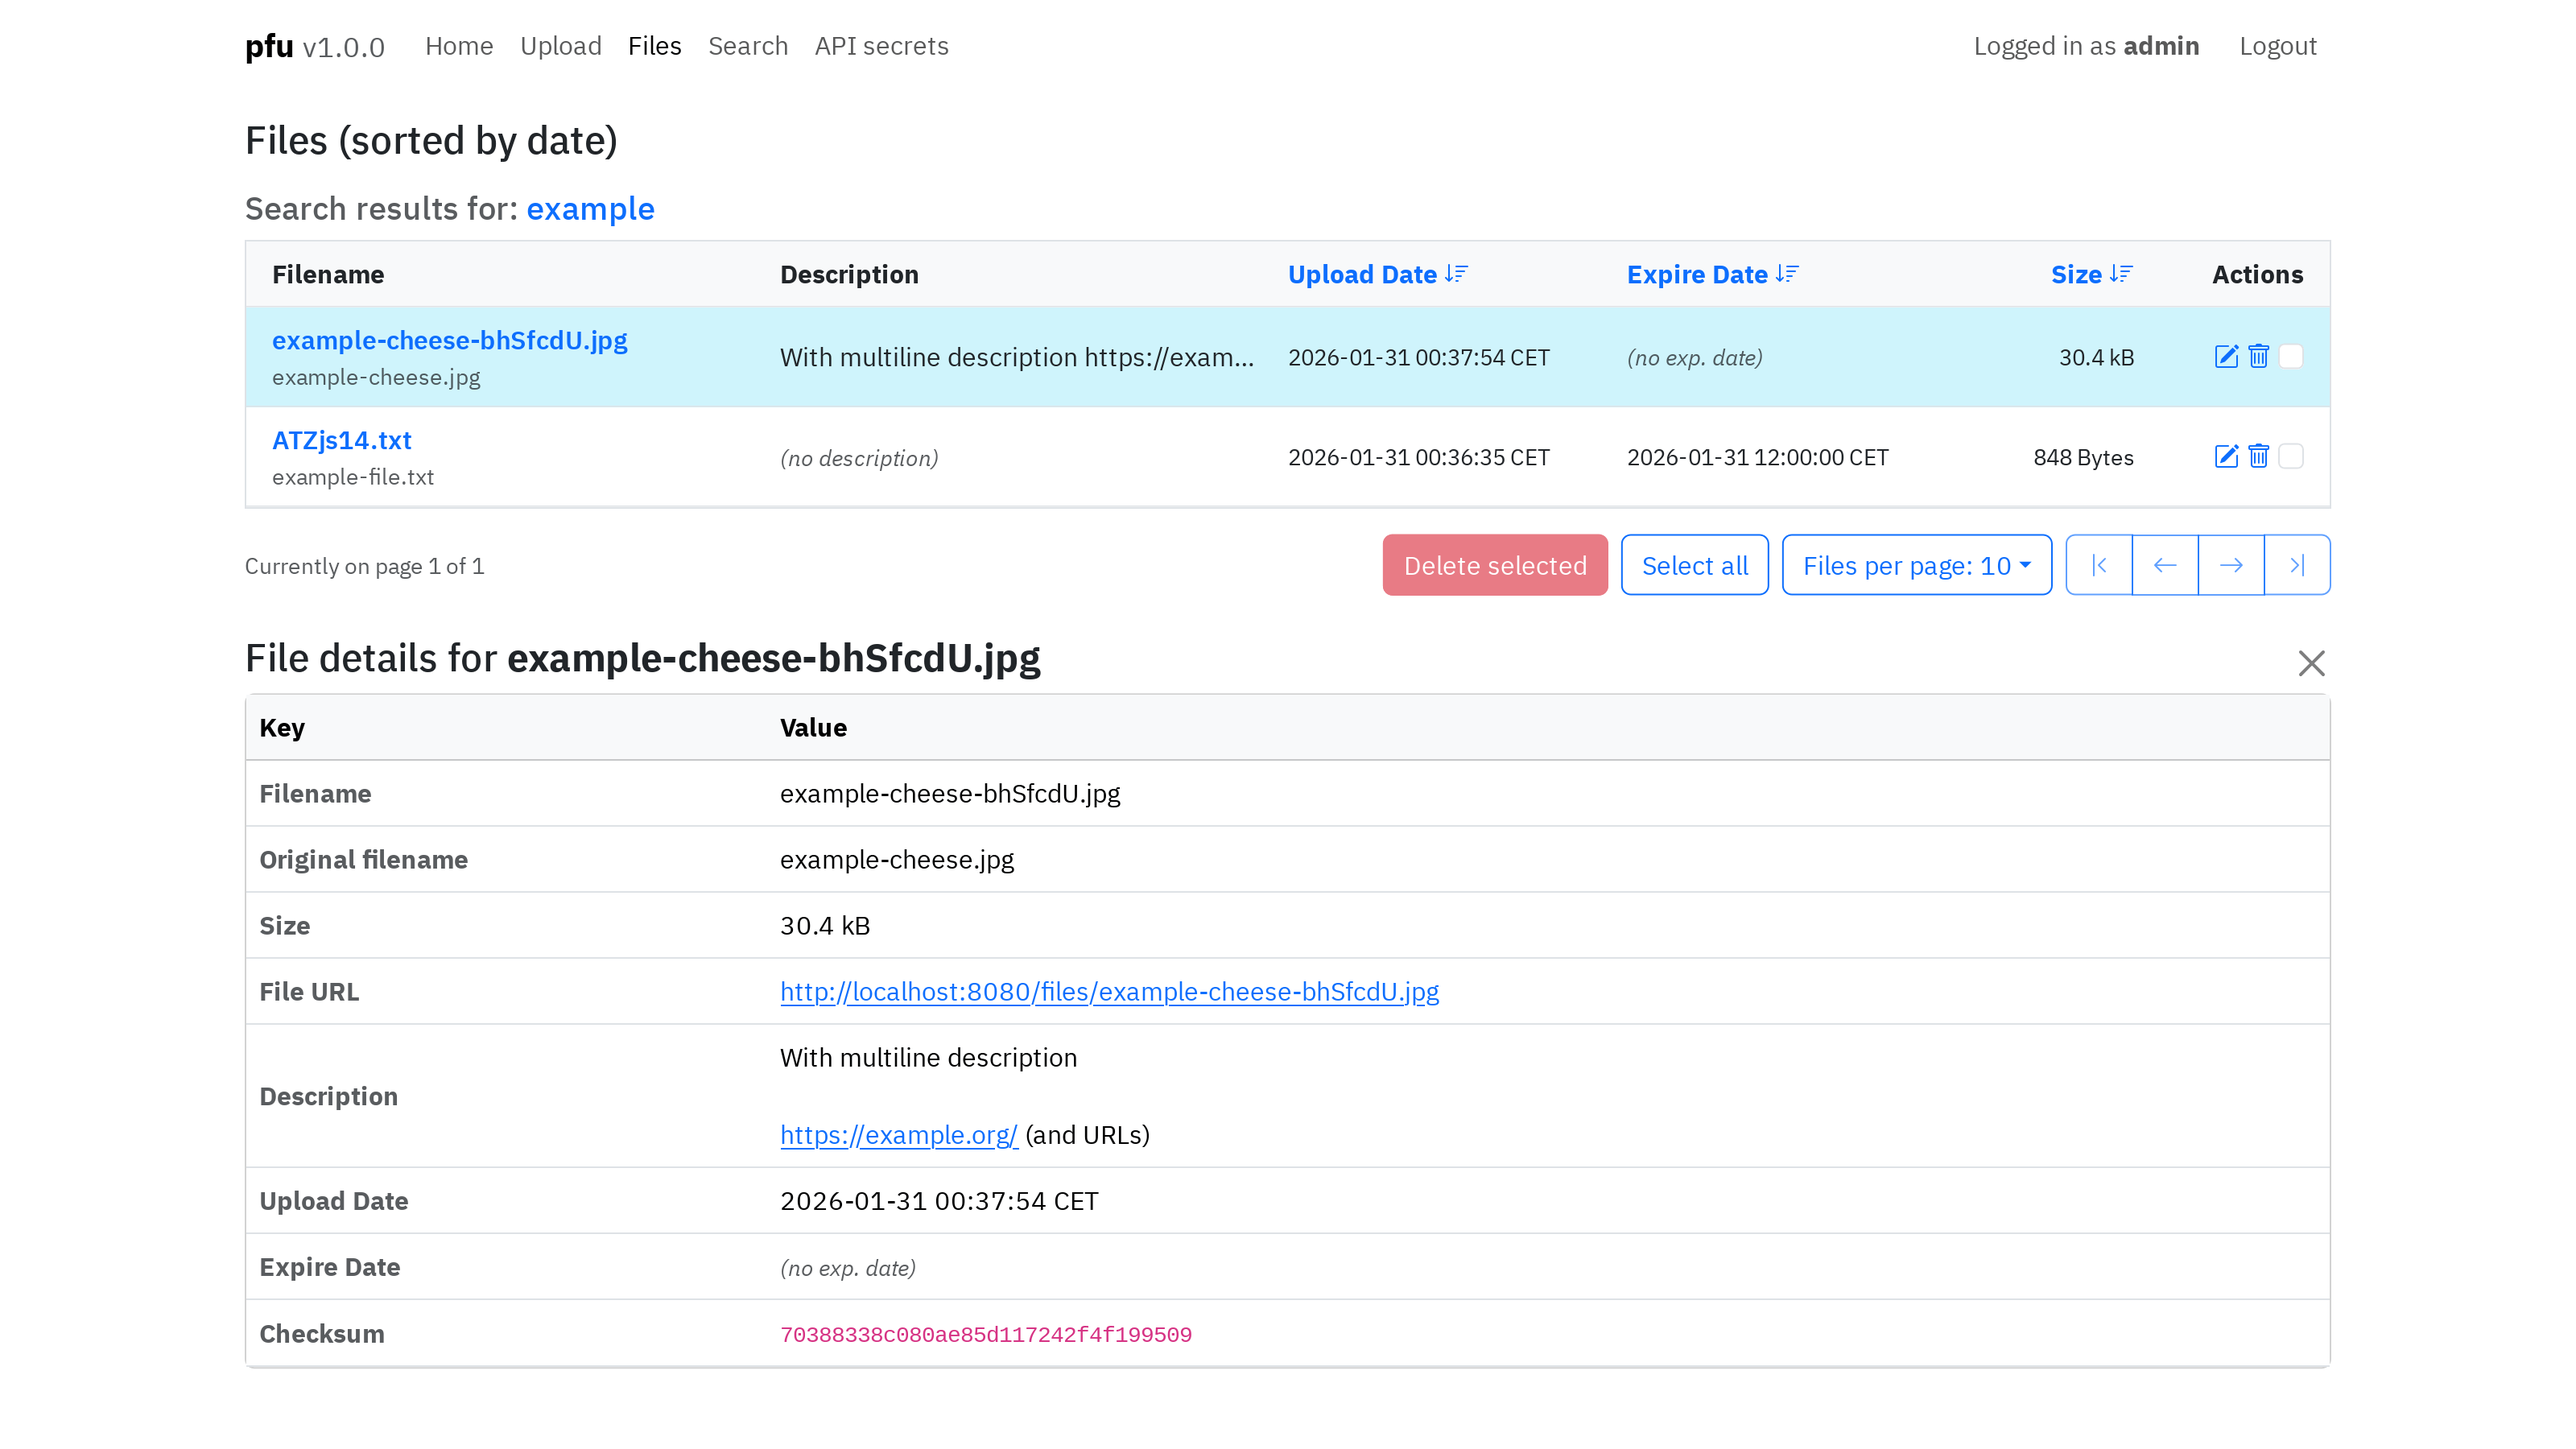
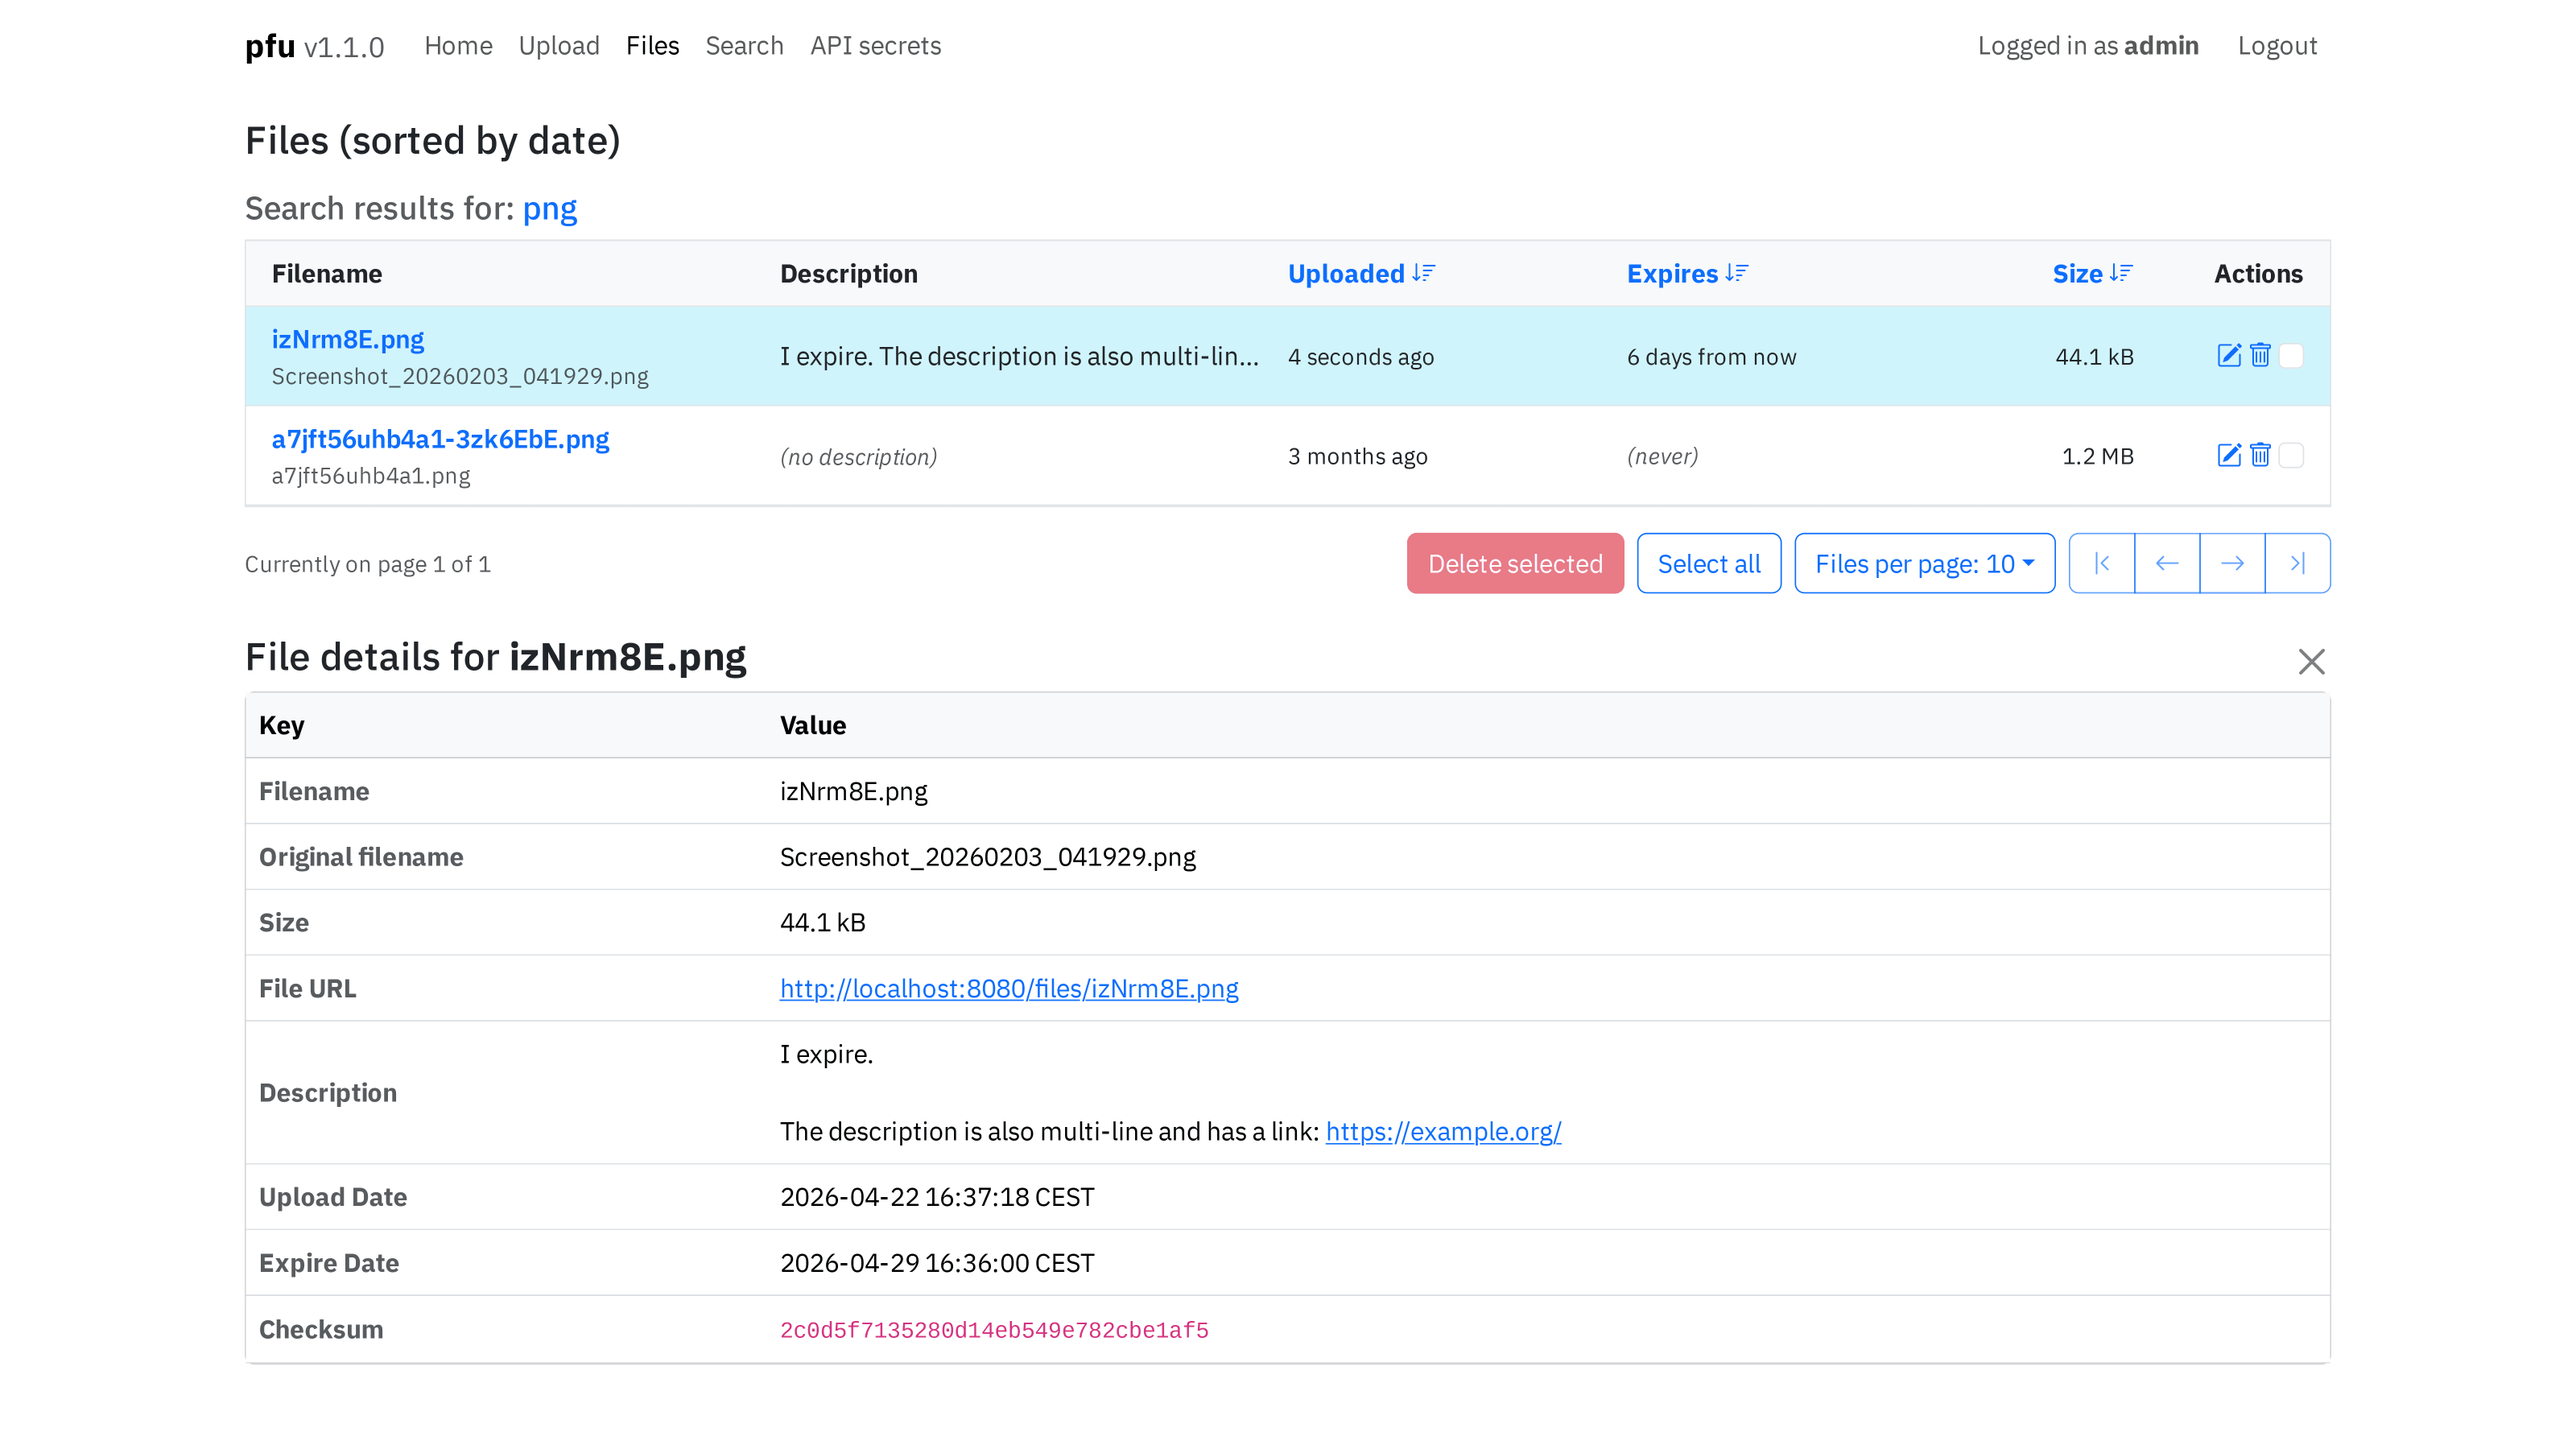
Update readme, requirements, and screenshots; bump version

diff --git a/pfu/__version__.py b/pfu/__version__.py
@@ -1,1 +1,1 @@
-__version__ = "1.0.1"
+__version__ = "1.1.0"

diff --git a/README.md b/README.md
@@ -1,5 +1,5 @@
 # pfu - personal file uploader
-Simple, single-user file uploader with basic file management features I made for personal use. Probably not the most efficient or secure solution out there but it works for me.
+Simple, single-user file uploader with basic file management features I made for personal use.
 
 ## Table of contents
 - [Installation](#installation)
@@ -177,11 +177,18 @@ You can use `generate-credentials.py` script to generate new admin credentials, 
 | `CHUNK_SIZE` | `65536` | File chunk size for MD5 calculation (bytes) |
 | `FILENAME_LENGTH` | `5` | Length of random filename component |
 | `UPDATE_STATS_INTERVAL` | `1` | Stats update interval (hours) |
+| `INTEGRITY_CHECK_INTERVAL` | `24` | Integrity check interval (hours) |
+| `INDEX_REDIRECT` | `/home` | Default route for authenticated users on index |
 
 ## Web interface
+
+> [!NOTE]
+> Some screenshots may show an older version number - this simply indicates that this particular view hasn't changed since that version.
+
 ### Home page
 Default view after login. Shows stats and actions.
 - **Update statistics** - Updates stats seen on this page.
+- **Run integrity check** - Checks file integrity: verifies on disk files match database records and vice versa, reports anomalies with flash messages.
 - **Check for orphans** - Checks for files in upload directory that are not in database, and files that are in database but not in upload directory.
 - **Logout all sessions** - Self-explanatory. This is done by generating a new session token which invalidates session cookies (see [auth.py](pfu/auth.py)).
 
@@ -190,7 +197,7 @@ Default view after login. Shows stats and actions.
 ### Upload page
 Upload files here. 
 - **Keep original filename?** - If checked, the original filename gets formatted to be filesystem-safe and prepended to the random filename component to avoid name collisions. It is still stored in its original form in the database.
-- **Expiration date and time** - If set, the file will be automatically deleted at the specified date and time (see [Job scheduler](#job-scheduler)). When time is not set, it defaults to midnight.
+- **Expiration date and time** - If set, the file will be automatically deleted at the specified date and time (see [Job scheduler](#job-scheduler)). When time is not set, it defaults to midnight of set date.
 - **Description** - Optional description of the file, supports multi-line input.
 
 [![Upload page](screenshots/upload.png)](screenshots/upload.png)
@@ -201,7 +208,7 @@ Shows all files or search query results. Self-explanatory. You can click on file
 [![Files page](screenshots/files.png)](screenshots/files.png)
 
 ### Edit file view
-Clicking on edit icon in the files table opens this view. You can edit the file's description and expiration date and time (see [Job scheduler](#job-scheduler)).
+Clicking on edit icon in the files table opens this view. You can edit the file's description, expiration date and time (see [Job scheduler](#job-scheduler)), and recalculate its checksum and size.
 
 [![Edit file](screenshots/edit.png)](screenshots/edit.png)
 
@@ -306,6 +313,9 @@ curl -X POST http://localhost:8080/api/upload \
 
 ```
 
+#### `POST /api/recalculate/<filename>`
+Recalculate file checksum and size (requires **write** permission). Response format same as [GET /api/file/](#get-apifilefilename).
+
 ## Job scheduler
 
 pfu uses APScheduler to run automated tasks in the background:
@@ -314,12 +324,17 @@ pfu uses APScheduler to run automated tasks in the background:
    - Runs every `UPDATE_STATS_INTERVAL` hours (default: 1 hour)
    - Updates cached statistics (file count, expiring files count, total size)
 
-2. **Prepare expire tasks**
+2. **Integrity check**
+   - Runs every `INTEGRITY_CHECK_INTERVAL` hours (default: 24 hours)
+   - Verifies files in database match files in upload directory (checksum and size)
+   - Notifies user using flash messages if any anomalies are detected
+
+3. **Prepare expire tasks**
    - Runs daily at 00:05 and at startup
    - Queries database for files expiring today or in past, to catch up if server was down
    - Schedules individual deletion jobs for each expiring file
 
-3. **File expiration jobs**
+4. **File expiration jobs**
    - Created by daily prepare expire task
    - Created when files with expiration dates set to today are uploaded
    - Created and removed as necessary when editing files' expiration dates
@@ -330,10 +345,9 @@ pfu uses APScheduler to run automated tasks in the background:
 
 ## Future plans
 In no particular order:
-- Automated testing... *sigh*
+- ~~Automated testing... *sigh*~~ - mostly done but not committed
+- Image upload tools (strip EXIF, optimise/minify to reduce file size)
 - Move forms to WTForms
 - Log storage and rotation
-- Humanize expire and upload dates (for example, "2 days ago" instead of "2026-01-31 12:00:00")
 - Add more search/filtering functionality
-- Add type hints
 - Whatever else comes to mind
